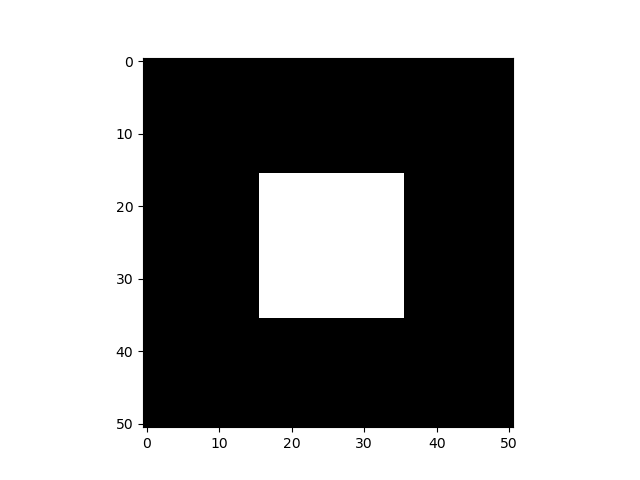
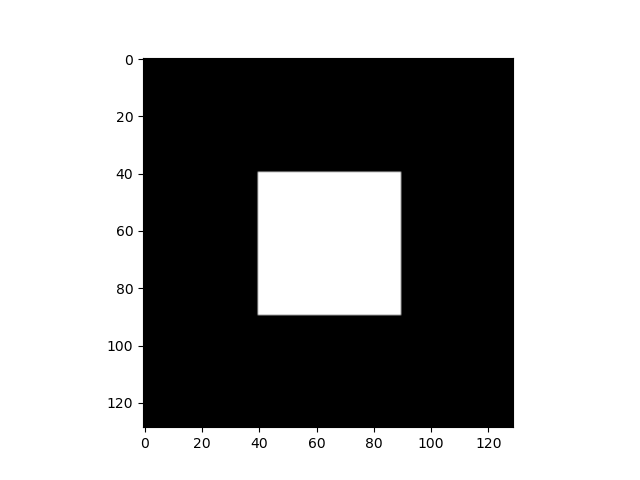
129 Imga formed

diff --git a/Controller/FourierTransformController.py b/Controller/FourierTransformController.py
@@ -8,9 +8,9 @@ if __name__ == "__main__":
     pbm_image_read_write_service = PBMImageReadWriteService()
     two_dimensional_fourier_transform_service = TwoDimensionalFourierTransformService()
 
-    square_image_side_length = 51
+    square_image_side_length = 129
     white_square_side_length = int(square_image_side_length*20/100)
-    filter_radius = white_square_side_length
+    filter_radius = 50 # white_square_side_length
 
     pbm_image_read_write_service.generate_pgm_image_with_square_white_block_in_the_middle(square_image_side_length,
                                                                                           square_image_side_length,
